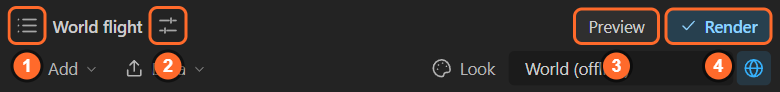
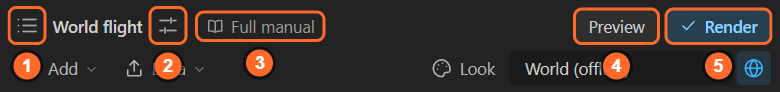
Full manual beside the map's name at the top of the panel: a quiet book and two words that light up when pointed at, with a tooltip saying what the manual holds; only the book on a panel under 340 px; chapter 2 shows it

diff --git a/src/panel/ui/App.tsx b/src/panel/ui/App.tsx
@@ -74,6 +74,20 @@ function Header(): JSX.Element {
         {entry ? entry.mapCompName : "LazyMapLayers"}
       </span>
       {entry && <IconButton icon="sliders" title="Map settings: name, basemap, globe" id="settings" onClick={() => (screen.value = "settings")} />}
+      {/* Next to the name, where the eye starts: always there, quiet until pointed at. */}
+      <a
+        class="manual-link"
+        data-id="header-manual"
+        href={MANUAL_URL}
+        title="Want to know every tool of LazyMapLayers inside out? Follow this link to the full manual: a chapter for every option, with pictures from After Effects (opens in your browser)."
+        onClick={(e) => {
+          e.preventDefault();
+          openUrl(MANUAL_URL);
+        }}
+      >
+        <Icon name="book" size={13} />
+        <span>Full manual</span>
+      </a>
       <span class="spacer" />
       {entry ? (
         <>

diff --git a/panel/panel.css b/panel/panel.css
@@ -171,6 +171,32 @@ select:focus {
   padding: 5px 6px 2px;
 }
 
+/* The manual, beside the map's name: always in sight, quiet until pointed at. */
+.manual-link {
+  flex: none;
+  display: inline-flex;
+  align-items: center;
+  gap: 4px;
+  margin-left: 2px;
+  padding: 2px 6px;
+  border-radius: var(--radius);
+  color: #9a9a9a;
+  text-decoration: none;
+  white-space: nowrap;
+}
+
+.manual-link:hover {
+  background: var(--accent-soft);
+  color: var(--accent);
+}
+
+/* A very narrow panel keeps the book and lets the words go. */
+@media (max-width: 340px) {
+  .manual-link span {
+    display: none;
+  }
+}
+
 /* On a narrow panel the tools take a second row instead of running out of sight. */
 .bar.tools {
   flex-wrap: wrap;

diff --git a/src/panel/ui/icons.tsx b/src/panel/ui/icons.tsx
@@ -5,6 +5,7 @@ import type { JSX } from "preact";
 const PATHS = {
   list: "M8 6h13M8 12h13M8 18h13M3.5 6h.01M3.5 12h.01M3.5 18h.01",
   sliders: "M4 7h9M17 7h3M4 17h3M11 17h9M15 4.5v5M9 14.5v5",
+  book: "M12 6.5C10 5 7 4.5 4 5v13c3-.5 6 0 8 1.5 2-1.5 5-2 8-1.5V5c-3-.5-6 0-8 1.5zM12 6.5v13",
   pin: "M12 21s-6.5-6.2-6.5-11a6.5 6.5 0 0 1 13 0c0 4.8-6.5 11-6.5 11zM12 12.2a2.3 2.3 0 1 0 0-4.6 2.3 2.3 0 0 0 0 4.6z",
   pin3d: "M12 17s-4.5-4.3-4.5-7.8a4.5 4.5 0 0 1 9 0C16.500 12.700 12 17 12 17zM4 17.5l8 3.500 8-3.500M12 10.200a1.400 1.400 0 1 0 0-2.800 1.400 1.400 0 0 0 0 2.800z",
   callout: "M5 4h14a2 2 0 0 1 2 2v8a2 2 0 0 1-2 2h-7l-5 4.5V16H5a2 2 0 0 1-2-2V6a2 2 0 0 1 2-2zM7.5 8.500h9M7.5 11.500h6",

diff --git a/docs/manual/02-panel-at-a-glance.md b/docs/manual/02-panel-at-a-glance.md
@@ -25,9 +25,11 @@ does starts from one of eight areas. This chapter names each one, so the rest of
    See [chapter 4](04-maps-screen.md).
 2. **Map settings** (the sliders icon): the map's name, its basemap and the globe. It only shows
    once a map is selected. See [chapter 5](05-map-settings.md).
-3. **Preview**: renders the basemap at half size without supersampling. Fast, for checking the
+3. **Full manual** (the book): opens this manual in your browser. Point at it for a reminder of what
+   it holds.
+4. **Preview**: renders the basemap at half size without supersampling. Fast, for checking the
    timing.
-4. **Render**: renders at full quality with the settings of the Render tab. Only frames that changed
+5. **Render**: renders at full quality with the settings of the Render tab. Only frames that changed
    since the last render are drawn again.
 
 The name between the two icons is the selected map. When no map exists yet, the two render

diff --git a/docs/CHANGELOG.md b/docs/CHANGELOG.md
@@ -22,8 +22,9 @@
   about (both ends of every route, every pin, callout and attached layer, each by the nearest city
   within 50 km) and removes every other label in one undo step: a flight from Paris to Tokyo keeps
   Paris and Tokyo (D107).
-- **Created by Raisul Sohan** at the right end of the status line, and **Manual** under Maps >
-  About, open the manual on raisulsohan.com in your browser.
+- **Full manual** beside the map's name at the top of the panel, **Created by Raisul Sohan** at the
+  right end of the status line, and **Manual** under Maps > About open the manual on
+  raisulsohan.com in your browser.
 
 ## 1.3.0 — TCX import, lines from a hub, borders as lines (2026-10-12)
 
